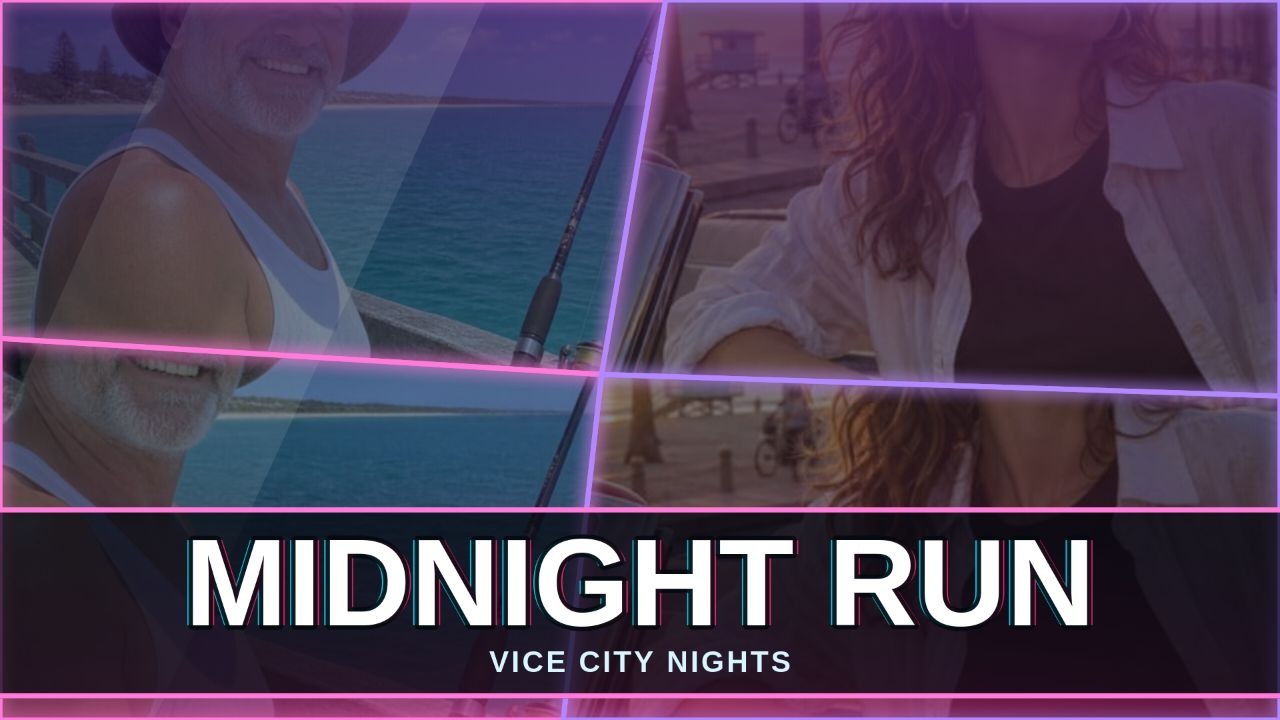
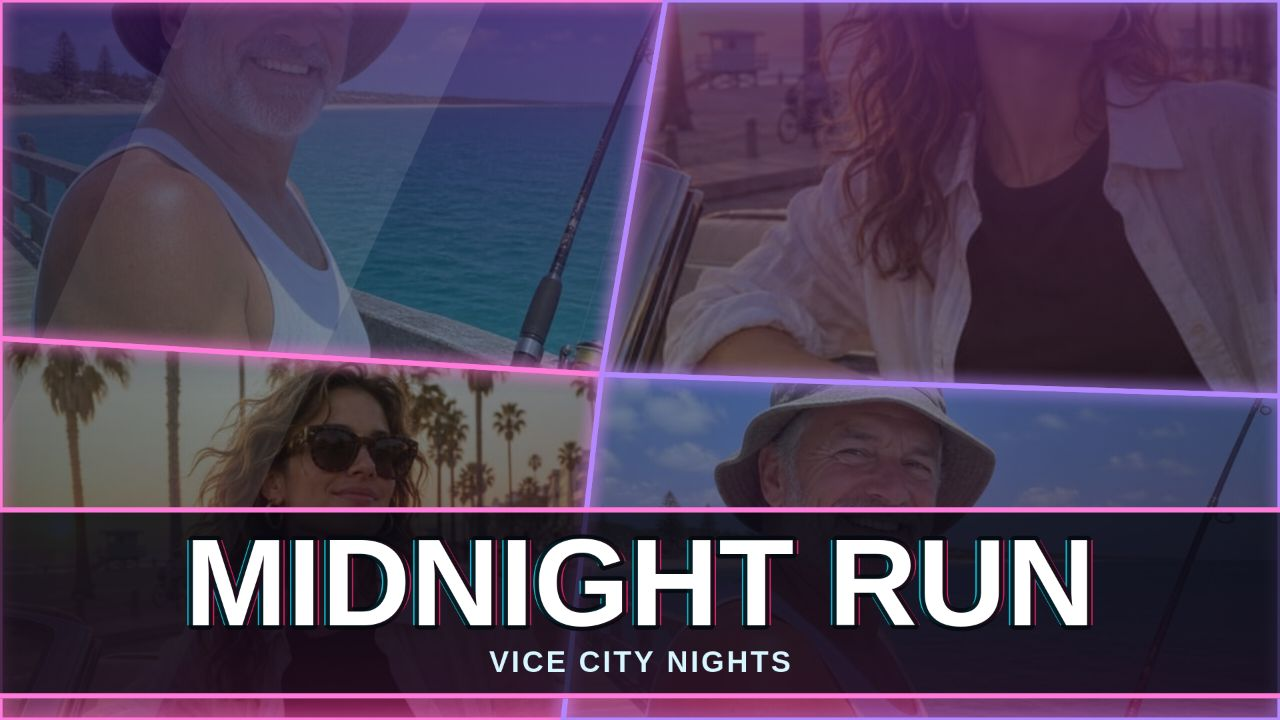
Fix Quad wide shot framing: bottom faces now read
Quad's bottom panels are wide and short and both sample photos carry
faces in the upper third, so the tall defaults cropped the bottom row
to mouth-and-chin (pier) and past the face entirely (boulevard).
Quad now has its own framing table (no extra zoom, upward pan on the
lower slots) and the wide shot mirrors the bottom row
(panels=pier,boulevard,boulevard,pier) so the portrait photo lands in
the narrower bottom panel and the square photo in the wider one,
keeping both bottom faces near the same on-screen size and above the
caption band. shoot.mjs takes an optional shot name to re-take one
screenshot.

diff --git a/app/src/main.js b/app/src/main.js
@@ -39,8 +39,25 @@ function defaultPanels(layout, firstPhoto, secondPhoto) {
     { zoom: 1.55, ox: -0.12, oy: -0.04 },
     { zoom: 1.35, ox: 0.10, oy: 0.02 },
   ];
+  // Quad's bottom panels are wide and short, and both sample photos carry
+  // their faces in the upper third: the tall defaults above crop down to
+  // mouth-and-chin (or past the face entirely). Quad's lower slots use
+  // no extra zoom and a strong upward pan so the face lands in the clear
+  // strip above the caption band. The bottom row also mirrors the top
+  // (panel 2 takes the second photo, panel 3 the first): the portrait
+  // photo's face balloons in the widest panel, so it goes in the narrower
+  // bottom panel and the square photo in the wider one, keeping both
+  // bottom faces near the same on-screen size. The top slots keep the
+  // default framing.
+  const quadFraming = [
+    { zoom: 1.15, ox: 0, oy: 0 },
+    { zoom: 1.30, ox: 0.08, oy: 0.04 },
+    { zoom: 1.0, ox: 0, oy: 0.33 },
+    { zoom: 1.0, ox: 0, oy: 0.26 },
+  ];
+  const table = layout === 'quad' ? quadFraming : framing;
   for (let i = 0; i < count; i++) {
-    const f = framing[i % framing.length];
+    const f = table[i % table.length];
     slots.push({ photoId: i % 2 === 0 ? firstPhoto : secondPhoto, zoom: f.zoom, ox: f.ox, oy: f.oy });
   }
   return slots;
@@ -324,6 +341,16 @@ async function runShot(query) {
     ...p,
     photoId: second && i % 2 === 1 ? second : photo,
   }));
+  // Optional explicit per-panel assignment, e.g. panels=pier,boulevard,
+  // boulevard,pier: overrides the alternation above for the slots it names.
+  // Unknown ids are ignored, so a shot with no panels param is unchanged.
+  const explicit = query.get('panels');
+  if (explicit) {
+    const ids = explicit.split(',').map((s) => s.trim());
+    state.panels = state.panels.map((p, i) => (
+      ids[i] && state.photos[ids[i]] ? { ...p, photoId: ids[i] } : p
+    ));
+  }
   document.querySelectorAll('#gradeSeg button').forEach((b) => b.classList.toggle('on', b.dataset.grade === grade));
   document.querySelectorAll('#layoutSeg button').forEach((b) => b.classList.toggle('on', b.dataset.layout === layout));
   document.querySelectorAll('#sizeSeg button').forEach((b) => b.classList.toggle('on', b.dataset.size === size));
